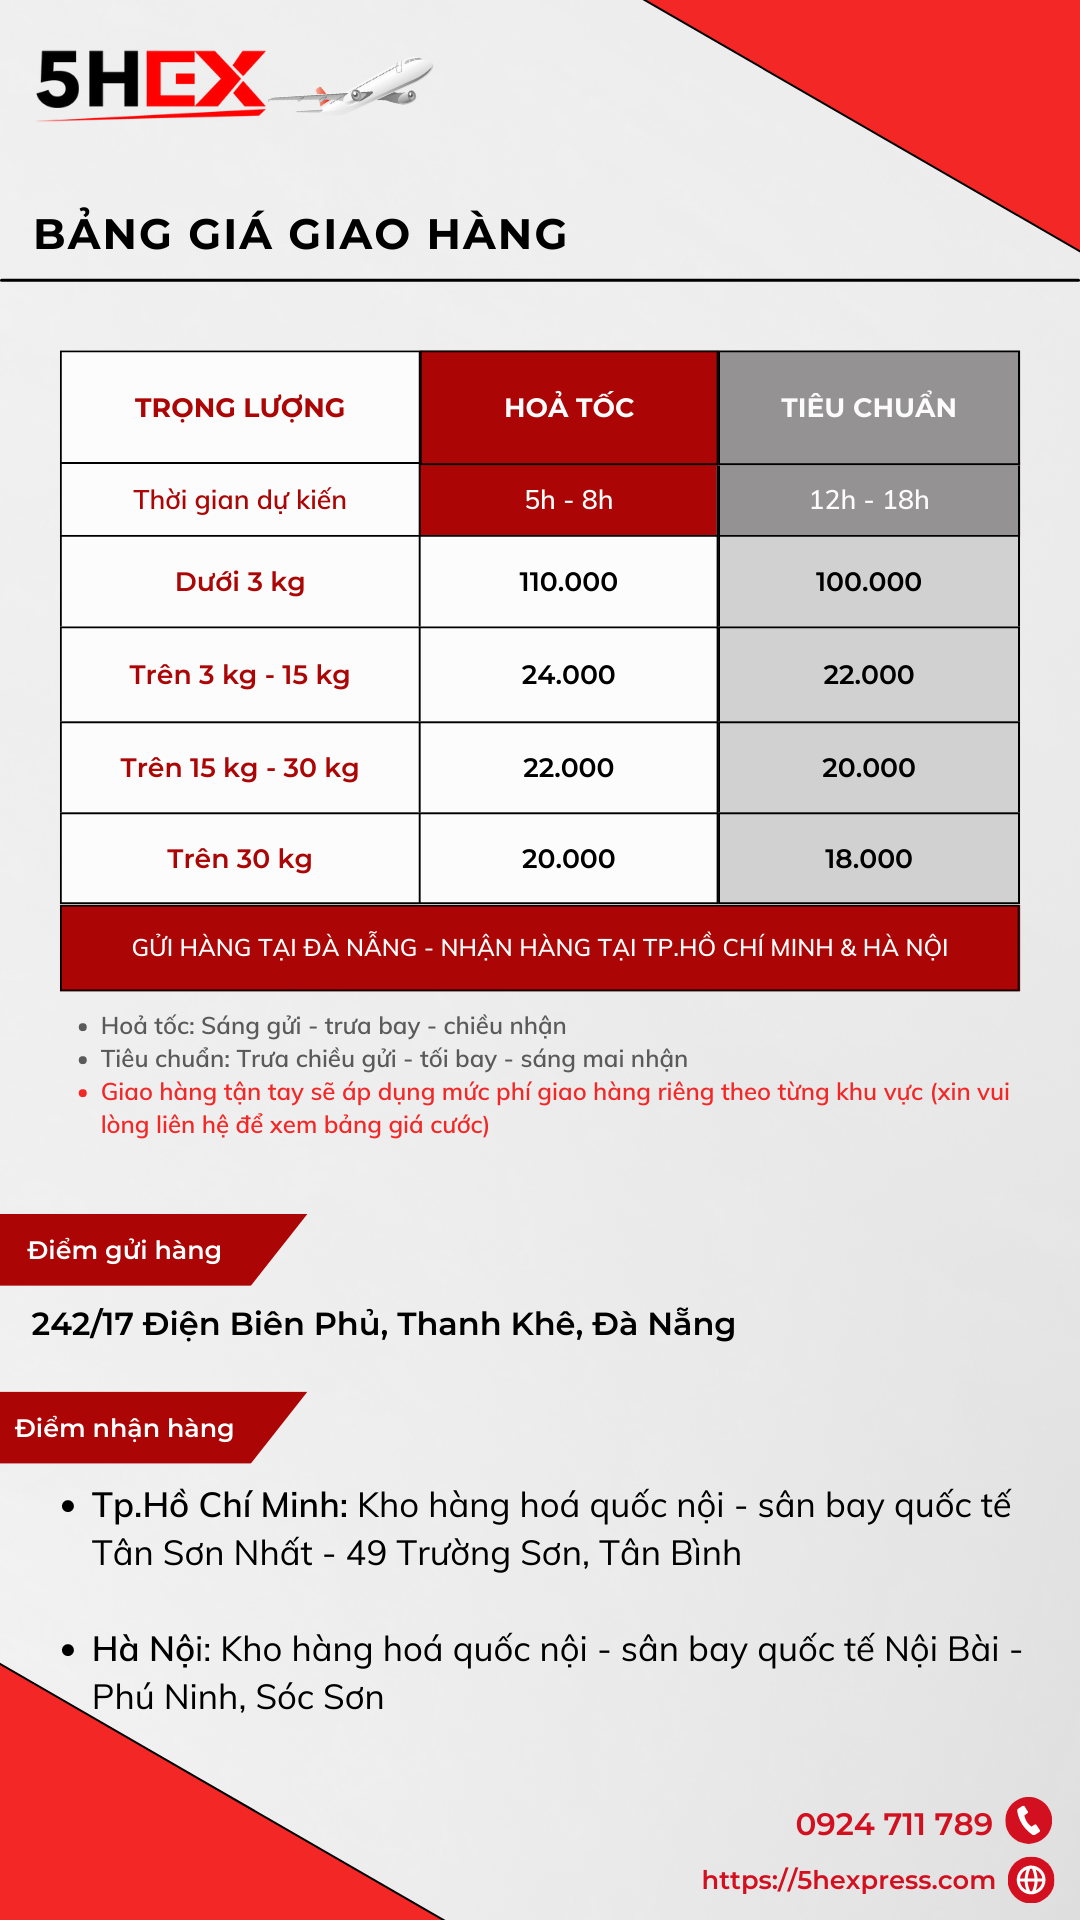
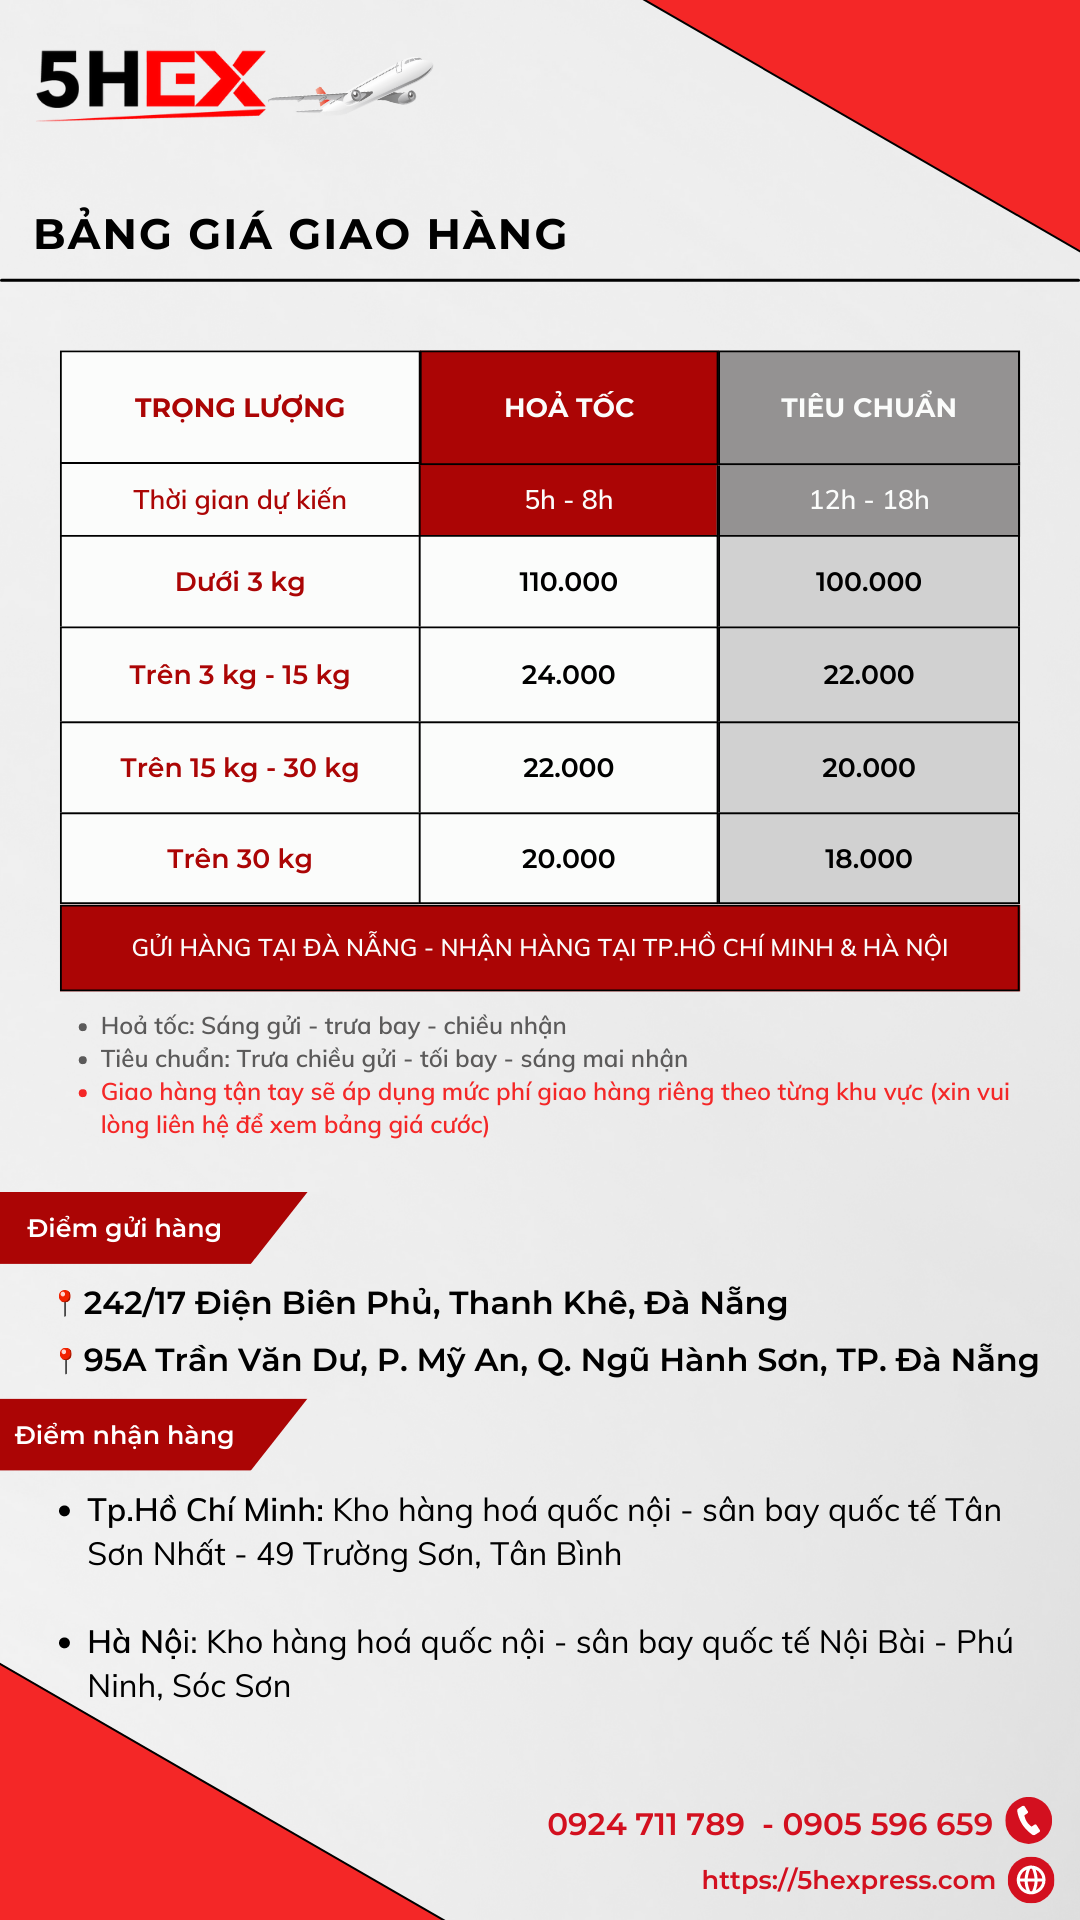
Update location

diff --git a/index.html b/index.html
@@ -251,10 +251,12 @@
         src="https://pixlok.com/wp-content/uploads/2021/07/Location-Icon-9d3.png"
         alt=""
       />
-      <div class="address">
-        <span class="text-title">Gửi hàng tại</span>
-        <span class="text">242/17 Điện Biên Phủ, P.Thạc Gián, Q.Thanh Khê</span>
-        <span class="text">0924 711 789 - 0772 50 53 56</span>
+        <div class="address">
+          <span class="text-title">Gửi hàng tại</span>
+          <span class="text"> 📍 242/17 Điện Biên Phủ, P.Thạc Gián, Q.Thanh Khê, TP. Đà Nẵng</span>
+          <span class="text"> 📍 95A Trần Văn Dư, P. Mỹ An, Q. Ngũ Hành Sơn, TP. Đà Nẵng</span>
+          <span class="text"> 📞 0924 711 789 - 0772 50 53 56 - 0905 596 659</span>
+        </div>
       </div>
     </div>
     <img
@@ -431,11 +433,10 @@ tion in some form, by </p> -->
 
           <div class="col-7">
             <h1 class="customer_text">LIÊN HỆ</h1>
-            <p class="footer_lorem_text">
-              242/17 Điện Biên Phủ, P.Thạc Gián, Q.Thanh Khê, TP.Đà Nẵng
-            </p>
-            <p class="footer_lorem_text">
-              Số điện thoại: 0924 711 789 - 0772 50 53 56
+            <span class="footer_lorem_text"> 📍 242/17 Điện Biên Phủ, P.Thạc Gián, Q.Thanh Khê, TP. Đà Nẵng</span>
+            <span class="footer_lorem_text"> 📍 95A Trần Văn Dư, P. Mỹ An, Q. Ngũ Hành Sơn, TP. Đà Nẵng</span>
+            <p class="footer_lorem_text mt-3">
+              Số điện thoại: 0924 711 789 - 0905 596 659 - 0772 50 53 56
             </p>
             <div class="social_icon">
               <a
